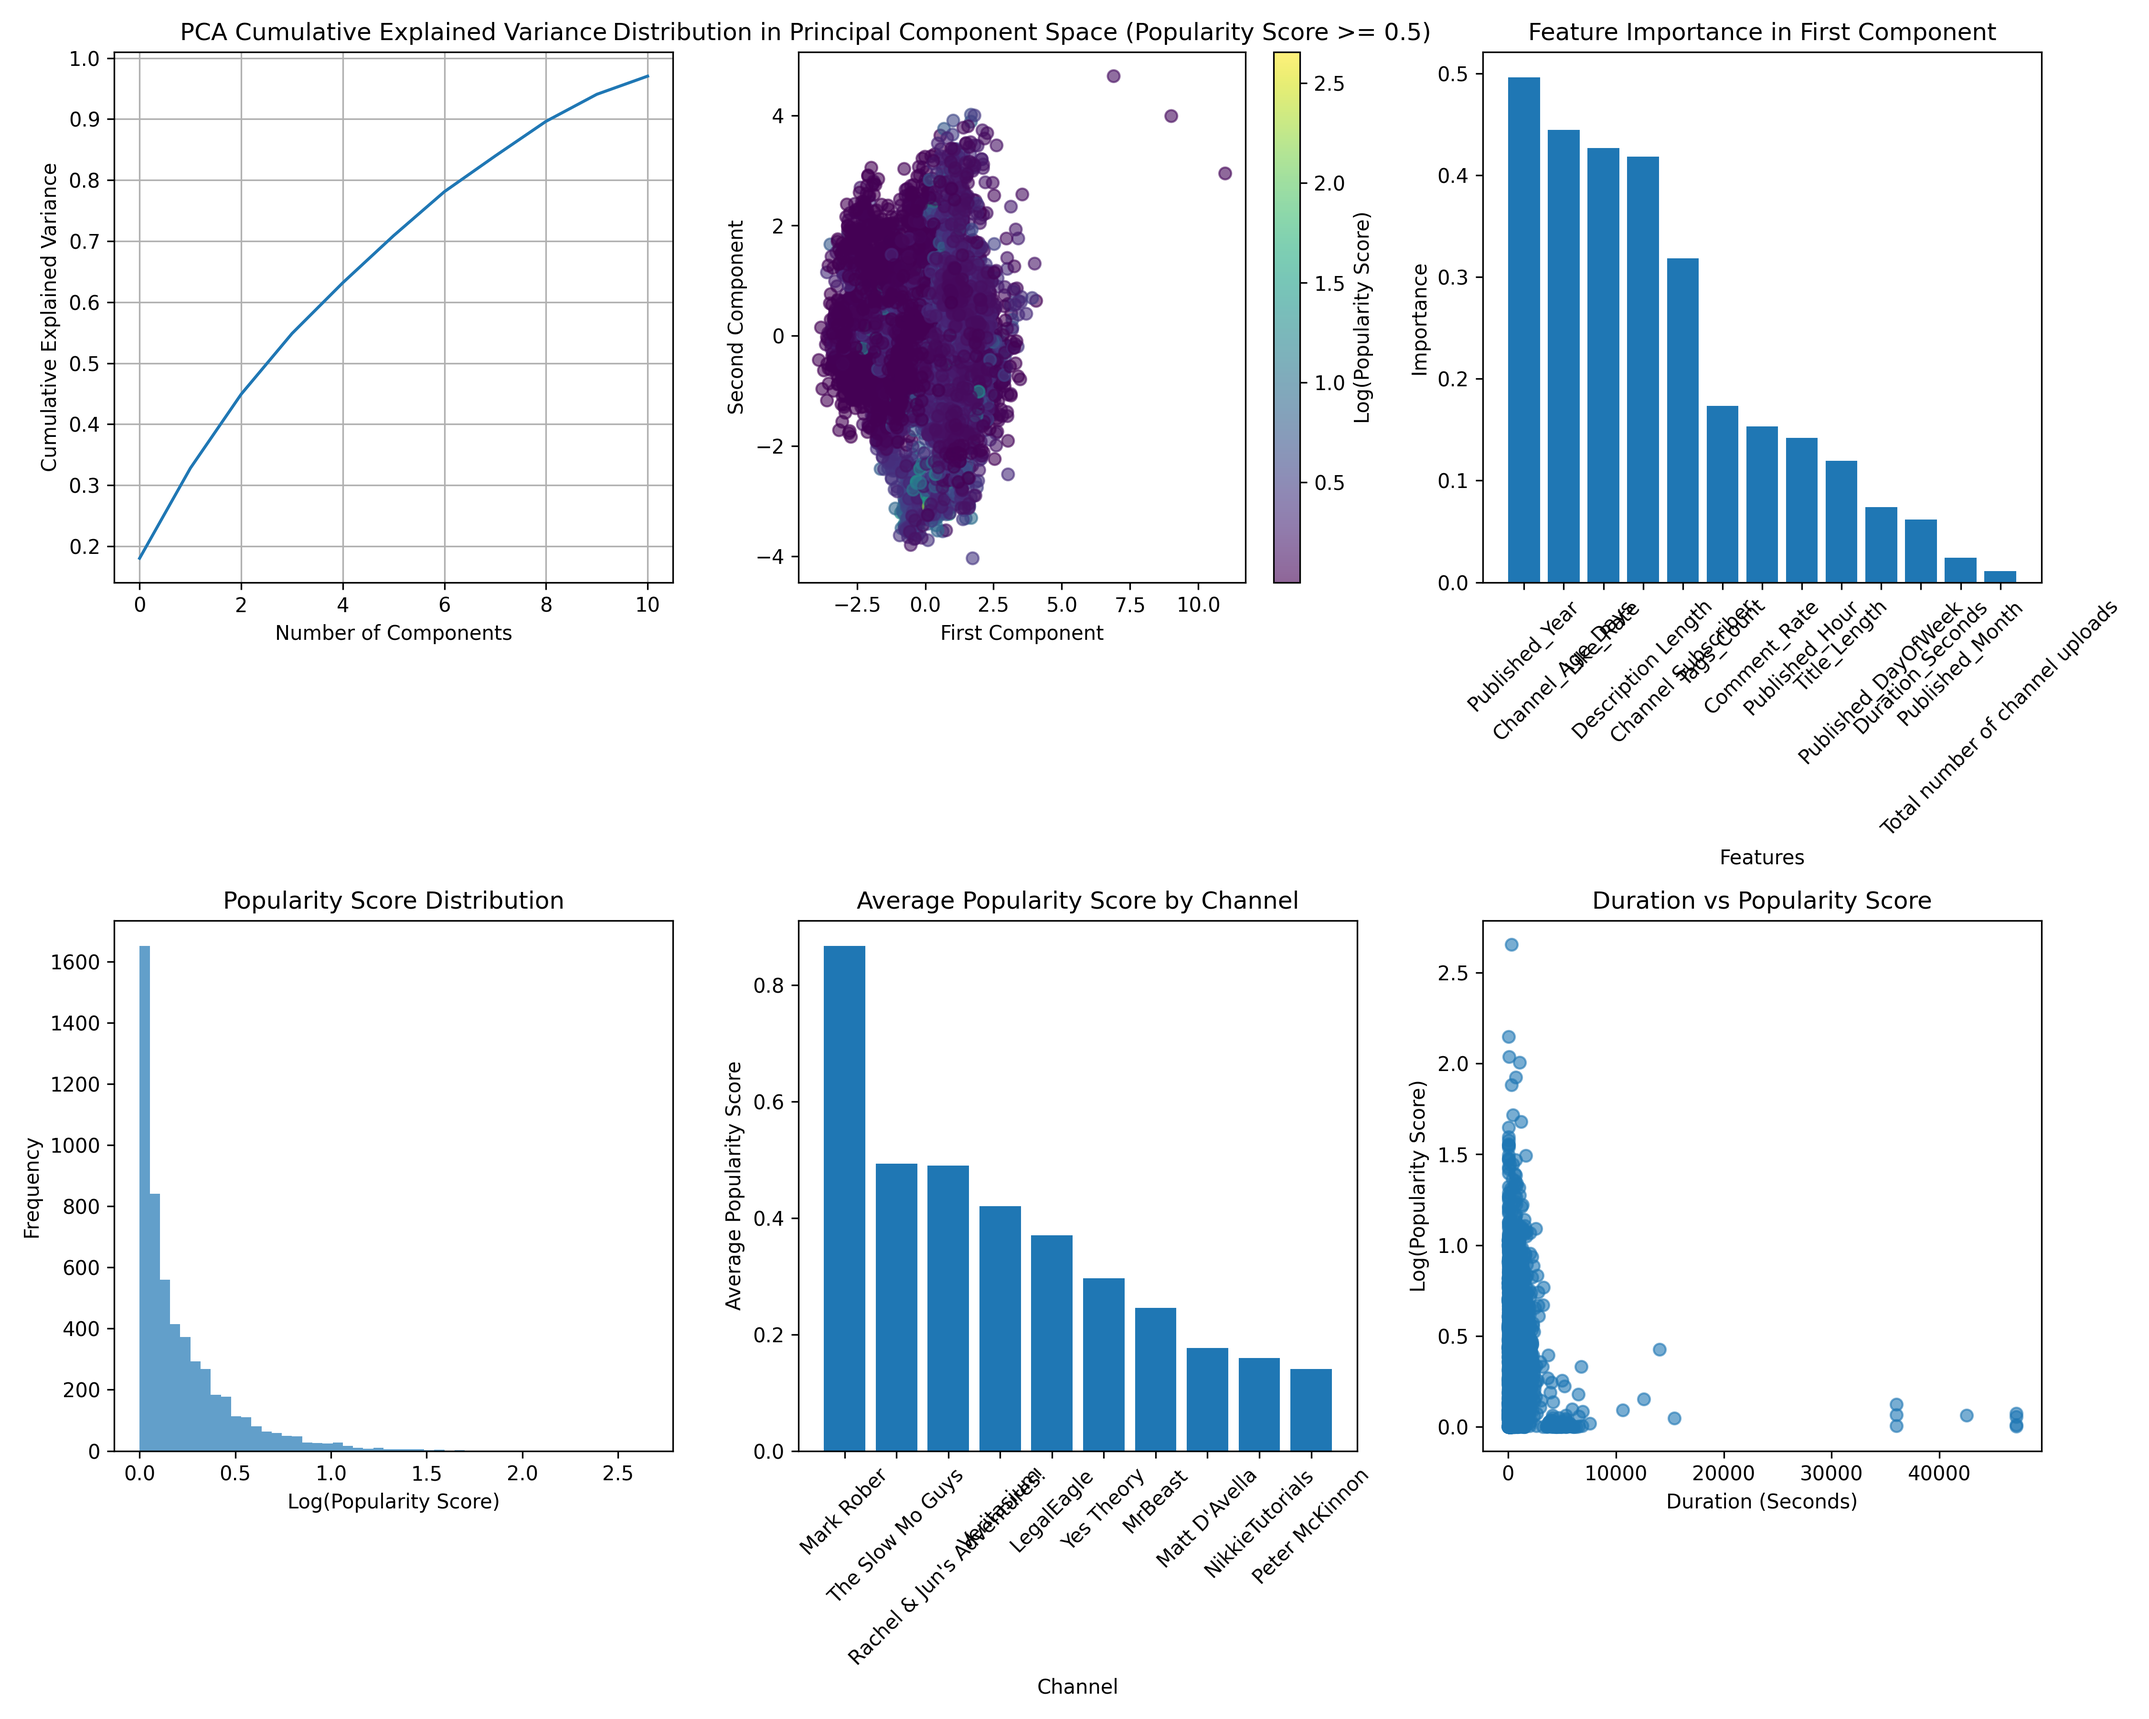
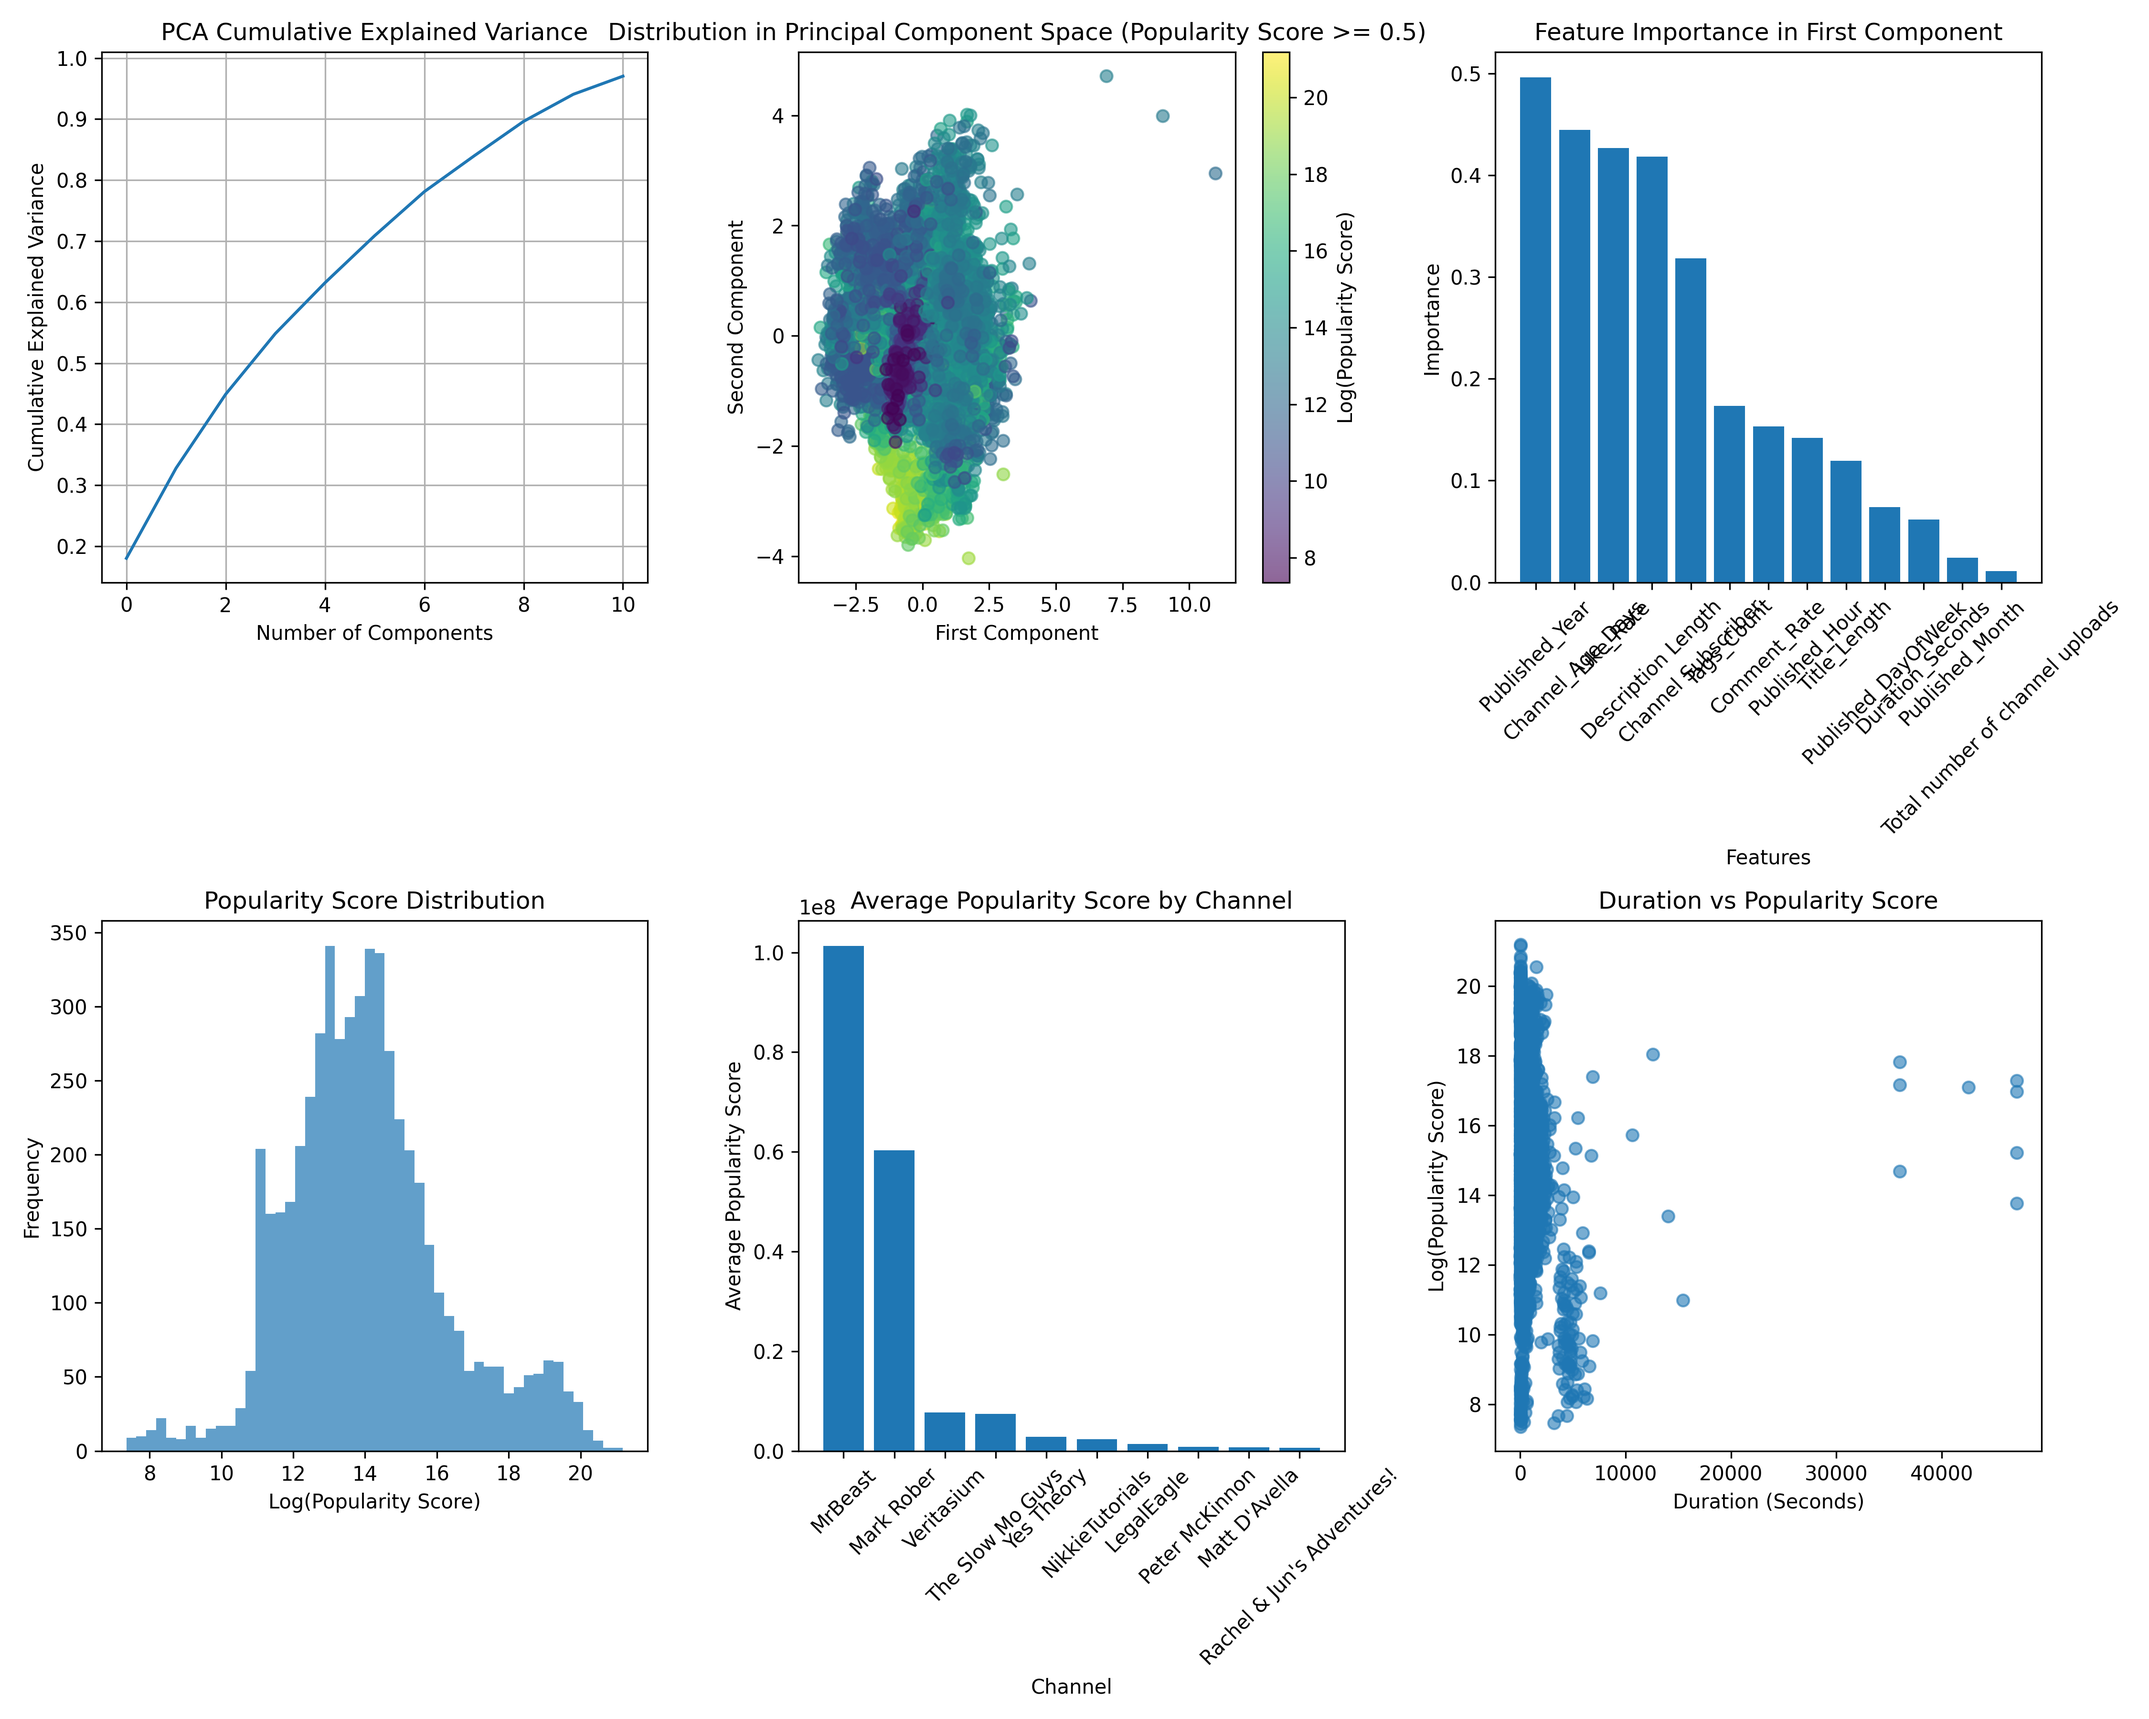
feat: Add README and output files for YouTube data analysis results

diff --git a/data_analyze.py b/data_analyze.py
@@ -103,8 +103,8 @@ class YouTubeDataAnalyzer:
         ]
 
         # 8. Calculate popularity score (view count normalized by channel subscribers)
-        df["Popularity_Score"] = df["View Count"] / df["Channel Subscriber"]
-        # df["Popularity_Score"] = df["View Count"]
+        # df["Popularity_Score"] = df["View Count"] / df["Channel Subscriber"]
+        df["Popularity_Score"] = df["View Count"]
 
         # Replace infinite values and very large values
         df = df.replace([np.inf, -np.inf], np.nan)

diff --git a/README.md b/README.md
@@ -1,0 +1,3 @@
+``
+python data_analyze.py > output/output.txt
+```
